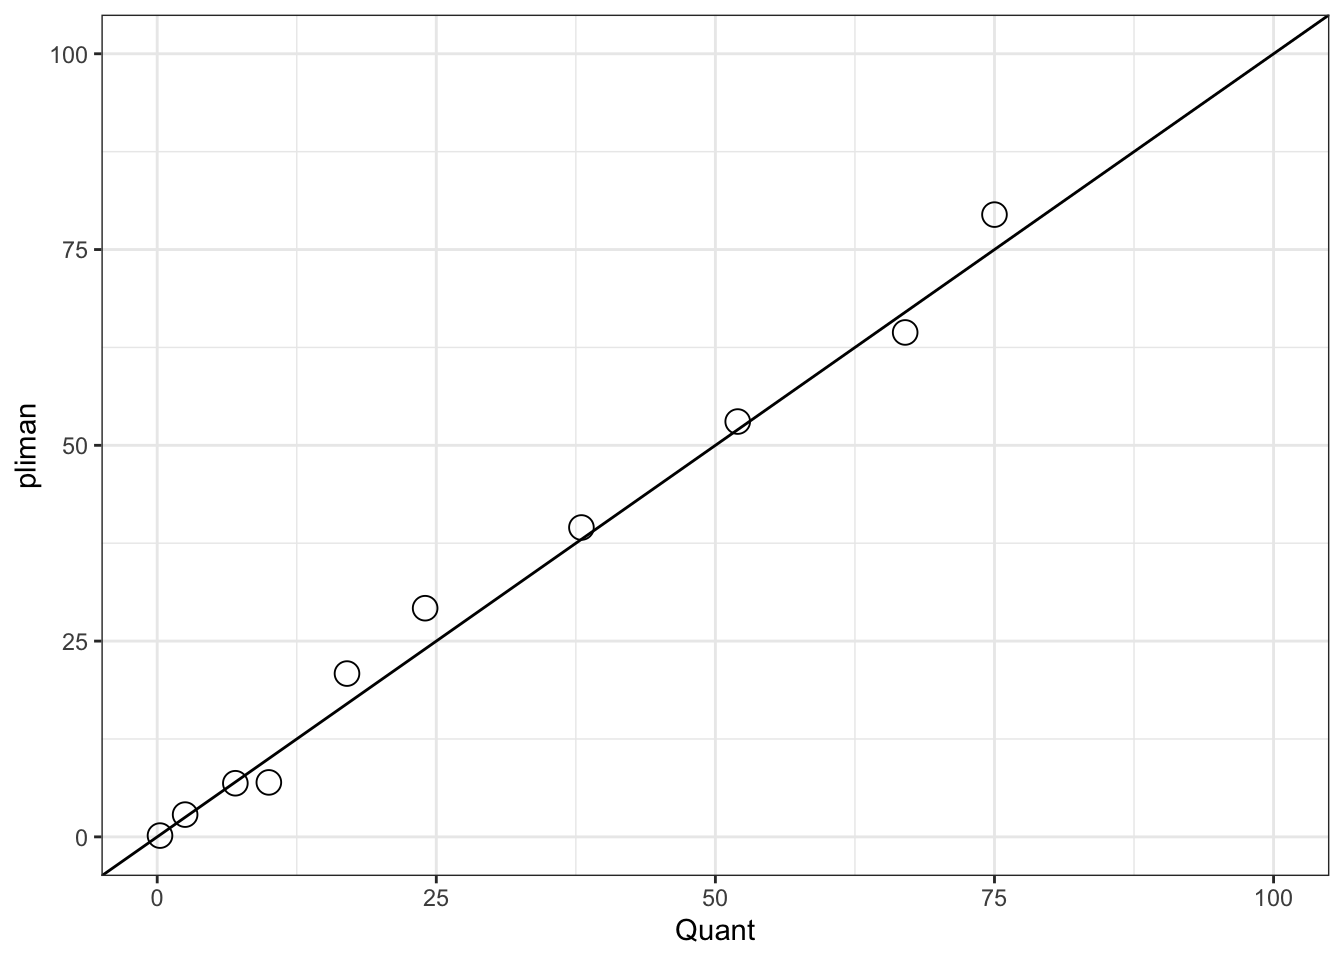
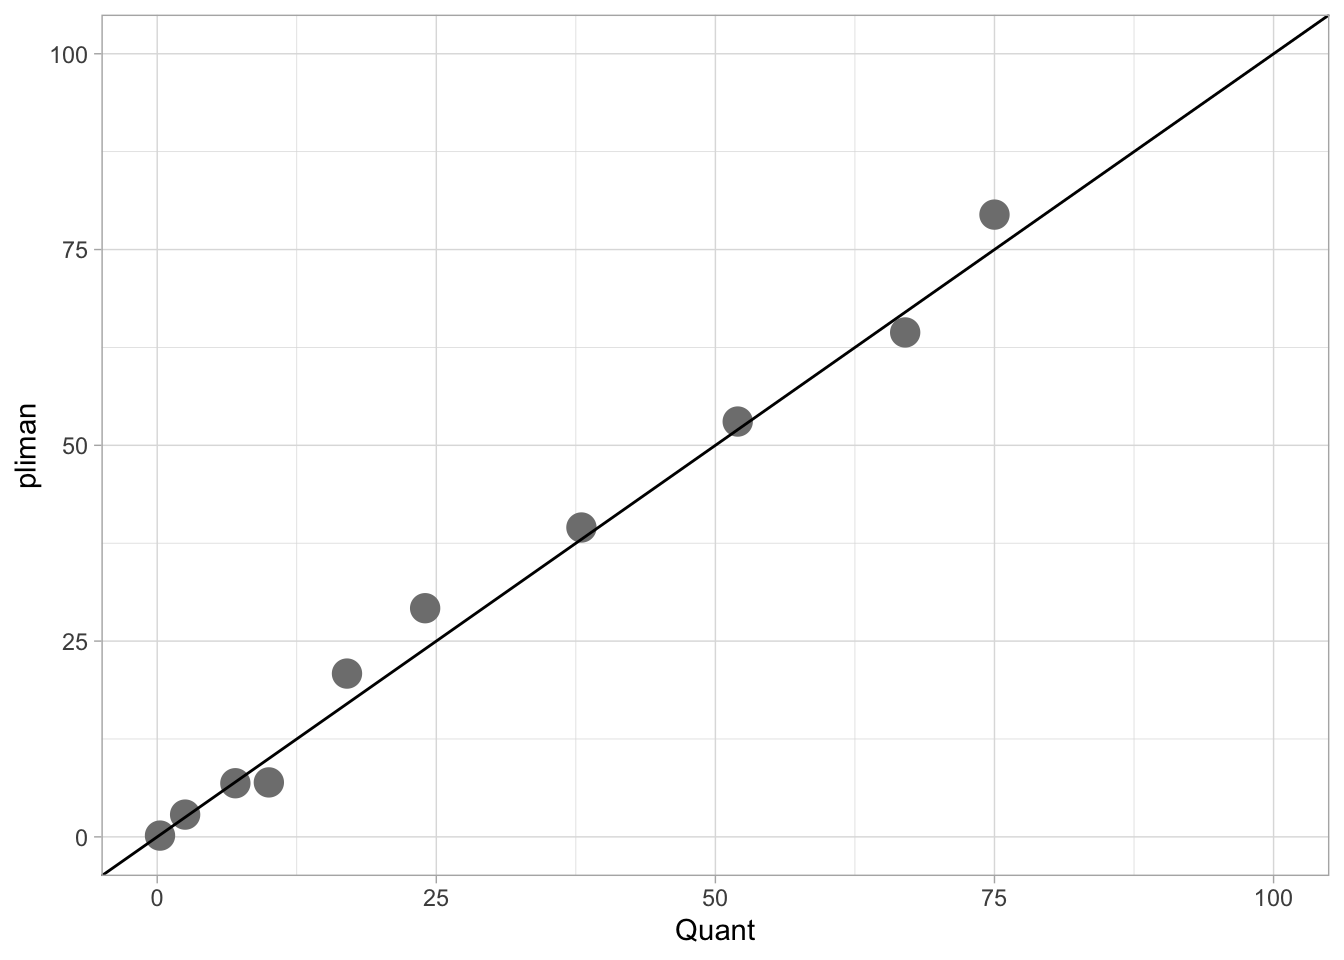
typos

diff --git a/_book/data-actual-severity.html b/_book/data-actual-severity.html
@@ -362,7 +362,7 @@ gtag('config', 'G-5T7SZYQV79', { 'anonymize_ip': true});
 <li>Background (the non-plant portion of the image)</li>
 </ol>
 <p>The ratio between the non diseased and diseased area of the unit (e.g.&nbsp;a fraction of the whole leaf image) gives the proportion of diseased area or the percent area affected (when multiplied by 100). Several different proprietary or open-source software has been used by researchers to determine the actual severity according a review on standard area diagrams <span class="citation" data-cites="delponte2017">(<a href="references.html#ref-delponte2017" role="doc-biblioref">Del Ponte et al. 2017</a>)</span>.</p>
-<p>Here, we will use the <code>measure_disease</code> function of the <em>pliman</em> (Plant IMage ANanalysis) <span class="citation" data-cites="olivoto2022a">(<a href="references.html#ref-olivoto2022a" role="doc-biblioref">Olivoto 2022</a>)</span> R package to determine the actual severity values. The package was compared with other software for determining plant disease severity on five different plant diseases and showed to produce concordant results for most of the cases <span class="citation" data-cites="olivoto2022">(<a href="references.html#ref-olivoto2022" role="doc-biblioref">Olivoto et al. 2022</a>)</span>. The workflow is based on two main steps: 1) preparing the image palettes that define each class of the image; and 2) run the function that will classify each pixel of the images according the colors of the palettes.</p>
+<p>Here, we will use the <code>measure_disease</code> function of the <em>pliman</em> (Plant IMage ANanalysis) <span class="citation" data-cites="olivoto2022a">(<a href="references.html#ref-olivoto2022a" role="doc-biblioref">Olivoto 2022</a>)</span> R package to determine the actual severity values. The package was compared with other software for determining plant disease severity on five different plant diseases and showed to produce concordant results for most of the cases <span class="citation" data-cites="olivoto2022">(<a href="references.html#ref-olivoto2022" role="doc-biblioref">Olivoto et al. 2022</a>)</span>. The workflow is based on two main steps: 1) preparing the image palettes that define each class of the image; and 2) run the function that will classify each pixel of the images according to the colors of the palettes.</p>
 </section>
 <section id="defining-color-palettes" class="level2" data-number="4.2">
 <h2 data-number="4.2" class="anchored" data-anchor-id="defining-color-palettes"><span class="header-section-number">4.2</span> Defining color palettes</h2>
@@ -467,31 +467,31 @@ attr(,"class")
 <pre><code>Processing image img11 |====                                     | 10% 00:00:00 </code></pre>
 </div>
 <div class="cell-output cell-output-stdout">
-<pre><code>Processing image img35 |========                                 | 20% 00:00:02 </code></pre>
+<pre><code>Processing image img35 |========                                 | 20% 00:00:03 </code></pre>
 </div>
 <div class="cell-output cell-output-stdout">
-<pre><code>Processing image img37 |============                             | 30% 00:00:02 </code></pre>
+<pre><code>Processing image img37 |============                             | 30% 00:00:04 </code></pre>
 </div>
 <div class="cell-output cell-output-stdout">
-<pre><code>Processing image img38 |================                         | 40% 00:00:03 </code></pre>
+<pre><code>Processing image img38 |================                         | 40% 00:00:05 </code></pre>
 </div>
 <div class="cell-output cell-output-stdout">
-<pre><code>Processing image img46 |====================                     | 50% 00:00:04 </code></pre>
+<pre><code>Processing image img46 |====================                     | 50% 00:00:06 </code></pre>
 </div>
 <div class="cell-output cell-output-stdout">
-<pre><code>Processing image img5 |=========================                 | 60% 00:00:05 </code></pre>
+<pre><code>Processing image img5 |=========================                 | 60% 00:00:08 </code></pre>
 </div>
 <div class="cell-output cell-output-stdout">
-<pre><code>Processing image img63 |=============================            | 70% 00:00:07 </code></pre>
+<pre><code>Processing image img63 |=============================            | 70% 00:00:10 </code></pre>
 </div>
 <div class="cell-output cell-output-stdout">
-<pre><code>Processing image img67 |=================================        | 80% 00:00:09 </code></pre>
+<pre><code>Processing image img67 |=================================        | 80% 00:00:11 </code></pre>
 </div>
 <div class="cell-output cell-output-stdout">
-<pre><code>Processing image img70 |=====================================    | 90% 00:00:10 </code></pre>
+<pre><code>Processing image img70 |=====================================    | 90% 00:00:13 </code></pre>
 </div>
 <div class="cell-output cell-output-stdout">
-<pre><code>Processing image img75 |=========================================| 100% 00:00:11 </code></pre>
+<pre><code>Processing image img75 |=========================================| 100% 00:00:14 </code></pre>
 </div>
 <div class="sourceCode cell-code" id="cb25"><pre class="sourceCode r code-with-copy"><code class="sourceCode r"><span id="cb25-1"><a href="#cb25-1" aria-hidden="true" tabindex="-1"></a>severity <span class="ot">&lt;-</span> pliman<span class="sc">$</span>severity</span>
 <span id="cb25-2"><a href="#cb25-2" aria-hidden="true" tabindex="-1"></a>severity</span></code><button title="Copy to Clipboard" class="code-copy-button"><i class="bi"></i></button></pre></div>
@@ -515,7 +515,7 @@ attr(,"class")
 </section>
 <section id="how-good-are-these-measurements" class="level2" data-number="4.4">
 <h2 data-number="4.4" class="anchored" data-anchor-id="how-good-are-these-measurements"><span class="header-section-number">4.4</span> How good are these measurements?</h2>
-<p>These 10 images were previously processed in QUANT software for determining severity. Let’s create a tibble for the image code and respective “actual” severity - assuming QUANT’s measures as reference.</p>
+<p>These 10 images were previously processed in QUANT software for measuring severity which is also based on image thresholding . Let’s create a tibble for the image code and respective “actual” severity - assuming QUANT’s measures as reference.</p>
 <div class="cell">
 <div class="sourceCode cell-code" id="cb27"><pre class="sourceCode r code-with-copy"><code class="sourceCode r"><span id="cb27-1"><a href="#cb27-1" aria-hidden="true" tabindex="-1"></a><span class="fu">library</span>(tidyverse)</span>
 <span id="cb27-2"><a href="#cb27-2" aria-hidden="true" tabindex="-1"></a>quant <span class="ot">&lt;-</span> <span class="fu">tribble</span>(</span>
@@ -540,11 +540,11 @@ attr(,"class")
 </div>
 <div class="sourceCode cell-code" id="cb30"><pre class="sourceCode r code-with-copy"><code class="sourceCode r"><span id="cb30-1"><a href="#cb30-1" aria-hidden="true" tabindex="-1"></a>dat <span class="sc">%&gt;%</span></span>
 <span id="cb30-2"><a href="#cb30-2" aria-hidden="true" tabindex="-1"></a>  <span class="fu">ggplot</span>(<span class="fu">aes</span>(actual, symptomatic)) <span class="sc">+</span></span>
-<span id="cb30-3"><a href="#cb30-3" aria-hidden="true" tabindex="-1"></a>  <span class="fu">geom_point</span>(<span class="at">size =</span> <span class="dv">4</span>, <span class="at">shape =</span> <span class="dv">1</span>) <span class="sc">+</span></span>
+<span id="cb30-3"><a href="#cb30-3" aria-hidden="true" tabindex="-1"></a>  <span class="fu">geom_point</span>(<span class="at">size =</span> <span class="dv">5</span>, <span class="at">shape =</span> <span class="dv">16</span>, <span class="at">color =</span> <span class="st">"gray50"</span>) <span class="sc">+</span></span>
 <span id="cb30-4"><a href="#cb30-4" aria-hidden="true" tabindex="-1"></a>  <span class="fu">ylim</span>(<span class="dv">0</span>, <span class="dv">100</span>) <span class="sc">+</span></span>
 <span id="cb30-5"><a href="#cb30-5" aria-hidden="true" tabindex="-1"></a>  <span class="fu">xlim</span>(<span class="dv">0</span>, <span class="dv">100</span>) <span class="sc">+</span></span>
 <span id="cb30-6"><a href="#cb30-6" aria-hidden="true" tabindex="-1"></a>  <span class="fu">geom_abline</span>(<span class="at">slope =</span> <span class="dv">1</span>, <span class="at">intercept =</span> <span class="dv">0</span>) <span class="sc">+</span></span>
-<span id="cb30-7"><a href="#cb30-7" aria-hidden="true" tabindex="-1"></a>  <span class="fu">theme_bw</span>() <span class="sc">+</span></span>
+<span id="cb30-7"><a href="#cb30-7" aria-hidden="true" tabindex="-1"></a>  <span class="fu">theme_light</span>() <span class="sc">+</span></span>
 <span id="cb30-8"><a href="#cb30-8" aria-hidden="true" tabindex="-1"></a>  <span class="fu">labs</span>(<span class="at">x =</span> <span class="st">"Quant"</span>,</span>
 <span id="cb30-9"><a href="#cb30-9" aria-hidden="true" tabindex="-1"></a>       <span class="at">y =</span> <span class="st">"pliman"</span>)</span></code><button title="Copy to Clipboard" class="code-copy-button"><i class="bi"></i></button></pre></div>
 <div class="cell-output-display">
@@ -580,7 +580,7 @@ attr(,"class")
 <section id="conclusion" class="level2" data-number="4.5">
 <h2 data-number="4.5" class="anchored" data-anchor-id="conclusion"><span class="header-section-number">4.5</span> Conclusion</h2>
 <p>The community of R users may enjoy using <a href="https://tiagoolivoto.github.io/pliman/">pliman</a> as an alternative to proprietary software or other point-and-click open source solutions such as imageJ. The simplicity of the batch processing approach can greatly improve the speed of the assessment and the user can set arguments to run R in parallel for enhanced computational speed.</p>
-<p>The most critical step, as I mentioned, is the definition of the reference color palettes. A few preliminary runs may be needed for a few leaves to check whether the segmentation is being performed correctly, based on visual judgement. This is no different than any other color-threshold based methods when the choices made by the user affect the final result and contribute to variation among assessors. The cons are the same encountered in the direct competitors, which is the necessity to have images obtained at uniform and controlled conditions, especially a contrasting background.</p>
+<p>The most critical step, as I mentioned, is the definition of the reference image palettes. A few preliminary runs may be needed for a few images to check whether the segmentation is being performed correctly, based on visual judgement. This is no different than any other color-threshold based methods when the choices made by the user affect the final result and contribute to variation among assessors. The cons are the same encountered in the direct competitors, which is the necessity to have images obtained at uniform and controlled conditions, especially a contrasting background.</p>
 
 
 <div id="refs" class="references csl-bib-body" role="doc-bibliography" style="display: none">
